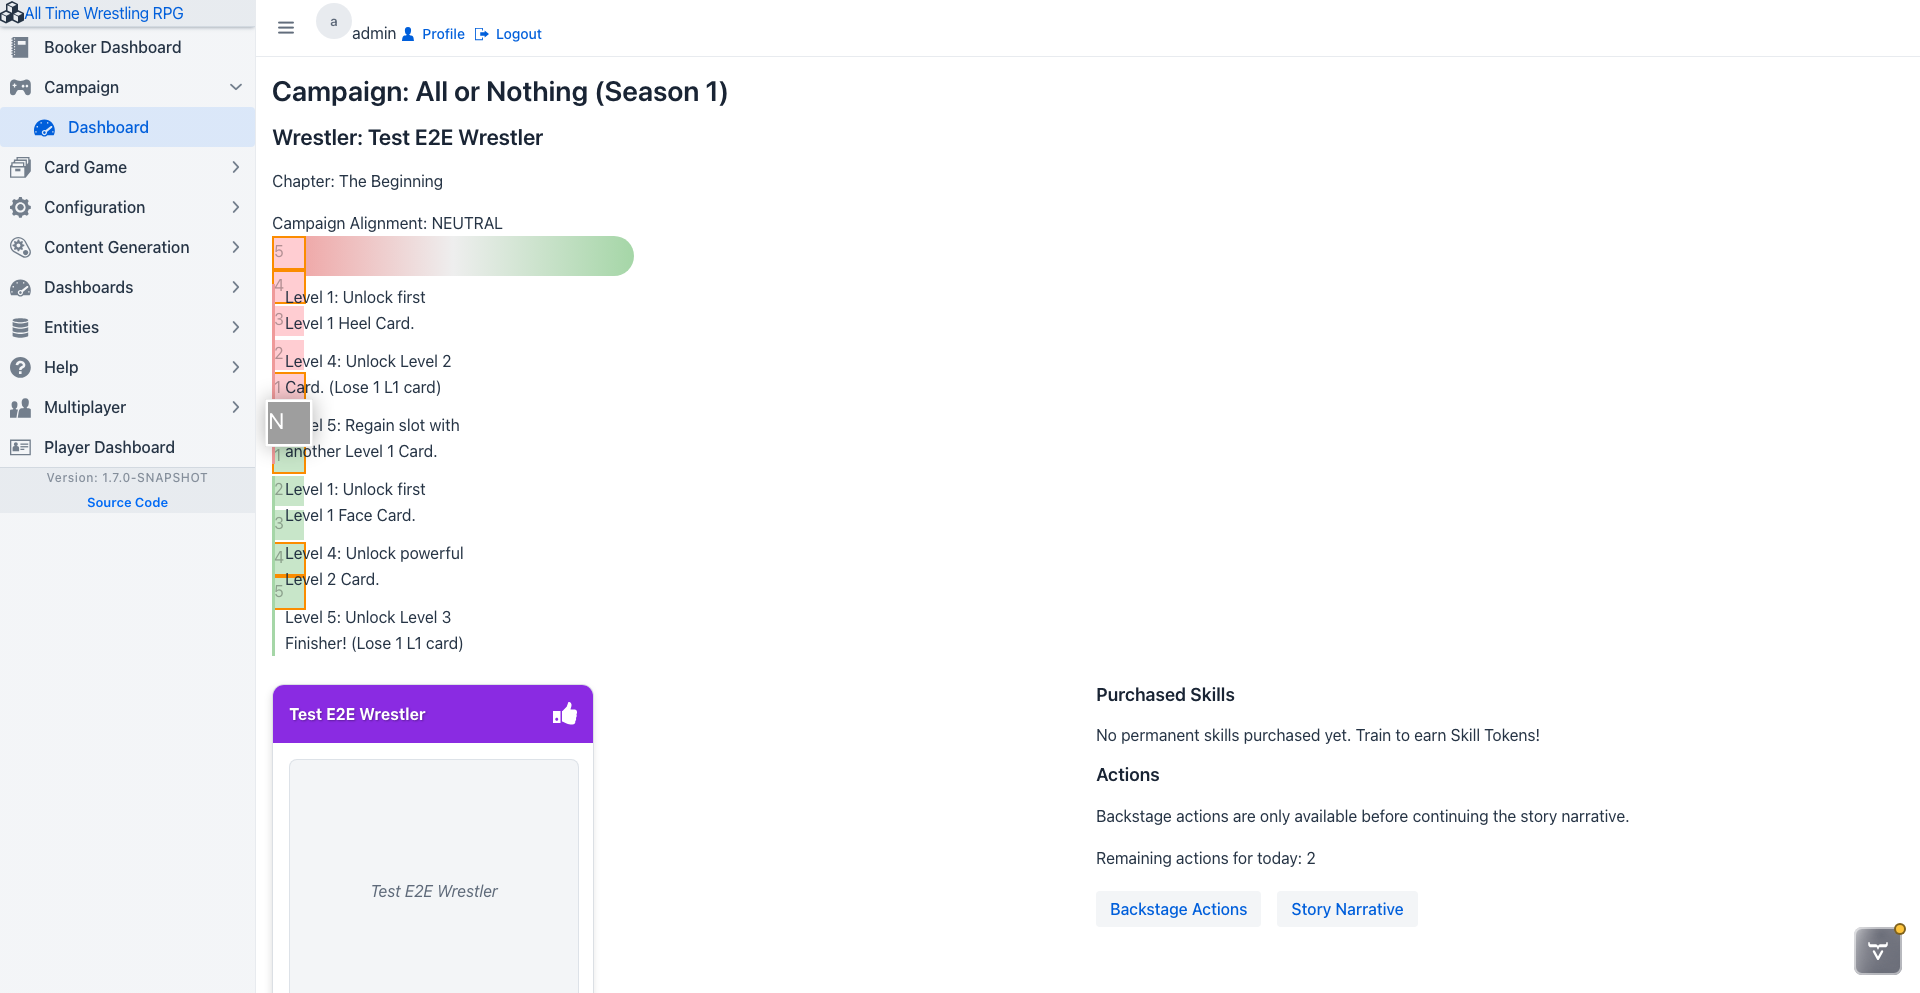
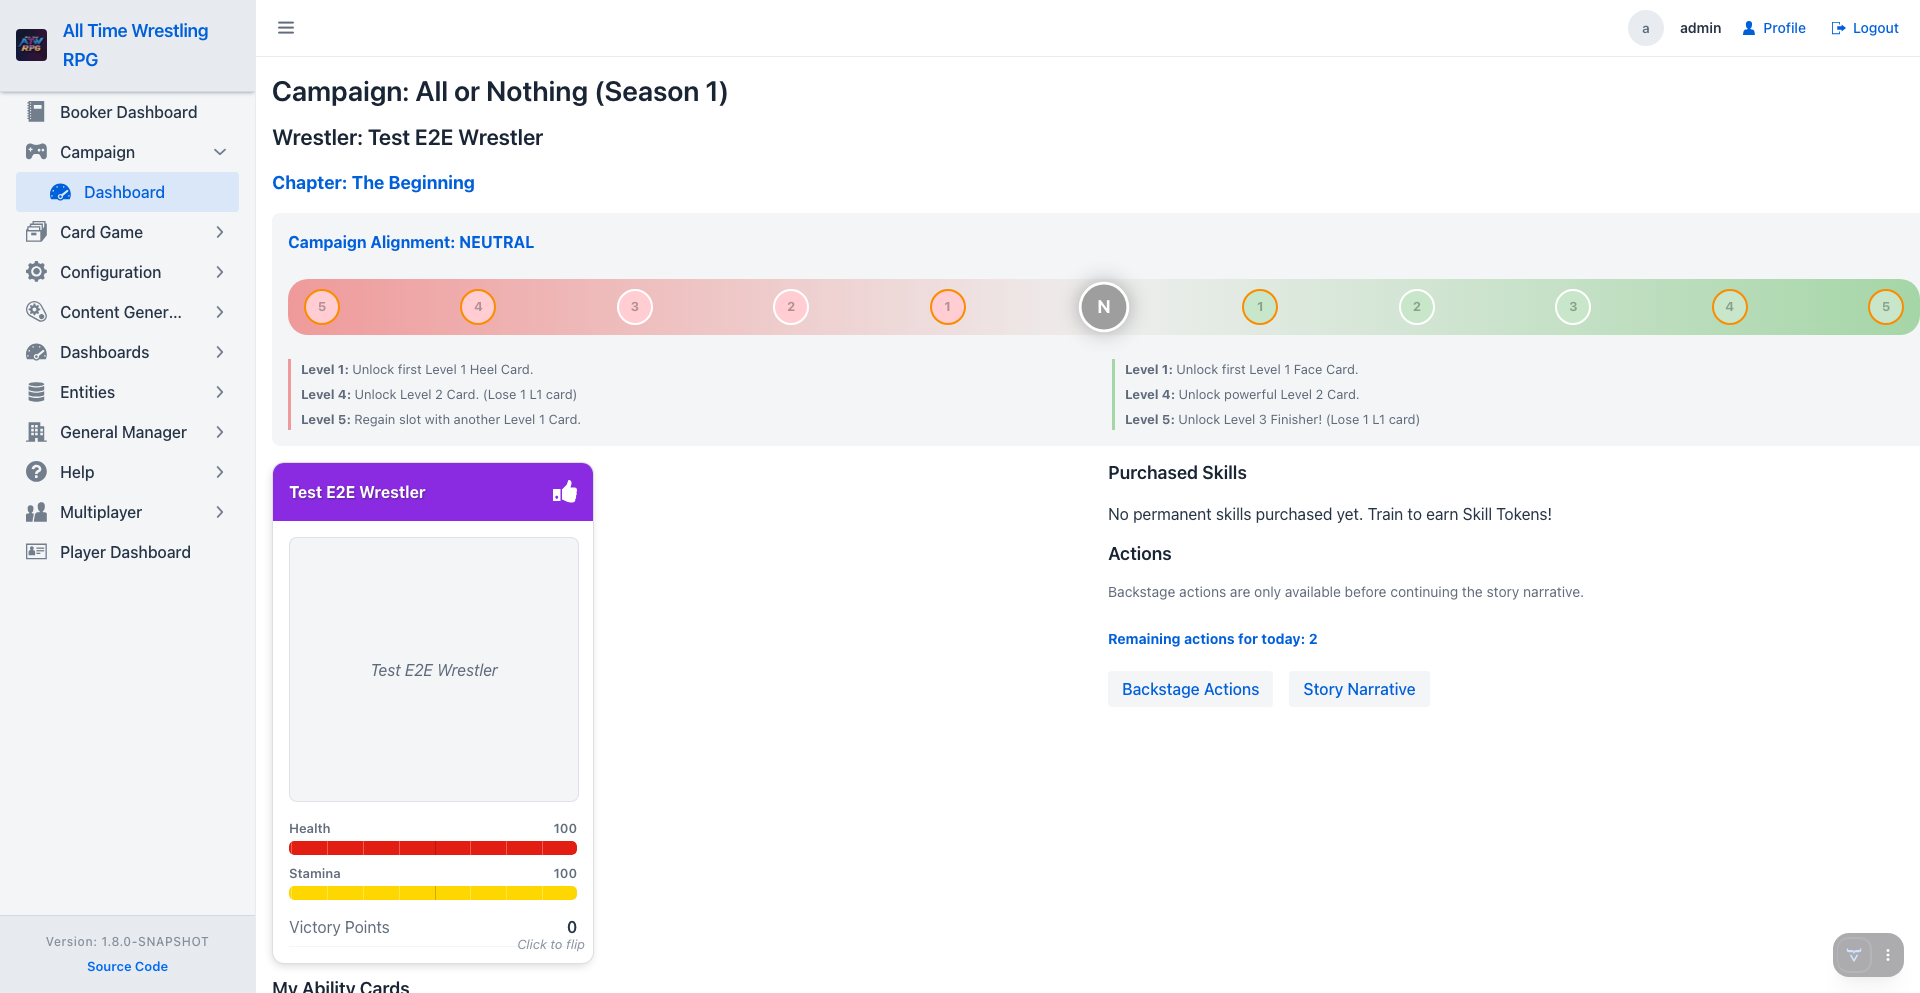
fix: fix alignment track rendering in campaign dashboard
Track was overflowing vertically due to fixed 40px height and spots
wrapping downward. Legend columns were also collapsing on top of each
other instead of rendering side by side.

diff --git a/src/main/java/com/github/javydreamercsw/management/ui/component/AlignmentTrackComponent.java b/src/main/java/com/github/javydreamercsw/management/ui/component/AlignmentTrackComponent.java
@@ -48,12 +48,16 @@ public class AlignmentTrackComponent extends Div {
     Div trackContainer = new Div();
     trackContainer.addClassNames(
         LumoUtility.Display.FLEX,
+        LumoUtility.FlexDirection.ROW,
         LumoUtility.JustifyContent.BETWEEN,
         LumoUtility.AlignItems.CENTER,
-        LumoUtility.Position.RELATIVE,
-        LumoUtility.Padding.Horizontal.LARGE,
+        LumoUtility.Width.FULL,
+        LumoUtility.Padding.Horizontal.MEDIUM,
         LumoUtility.Margin.Vertical.MEDIUM);
-    trackContainer.setHeight("40px");
+    trackContainer.setMinHeight("56px");
+    trackContainer.getStyle().set("flex-wrap", "nowrap");
+    trackContainer.getStyle().set("overflow", "visible");
+    trackContainer.getStyle().set("box-sizing", "border-box");
 
     // Multi-color gradient for bidirectional track
     trackContainer
@@ -80,6 +84,7 @@ public class AlignmentTrackComponent extends Div {
     Div legendContainer = new Div();
     legendContainer.addClassNames(
         LumoUtility.Display.FLEX, LumoUtility.JustifyContent.BETWEEN, LumoUtility.Gap.MEDIUM);
+    legendContainer.getStyle().set("flex-wrap", "nowrap");
 
     Div heelLegend = new Div();
     heelHelegendStyle(heelLegend);
@@ -116,8 +121,9 @@ public class AlignmentTrackComponent extends Div {
   private Div createSpot(
       AlignmentType spotType, int level, AlignmentType currentType, int currentLevel) {
     Div spot = new Div();
-    spot.setWidth("30px");
-    spot.setHeight("30px");
+    spot.setWidth("32px");
+    spot.setHeight("32px");
+    spot.getStyle().set("flex-shrink", "0");
     spot.addClassNames(
         LumoUtility.Display.FLEX,
         LumoUtility.AlignItems.CENTER,